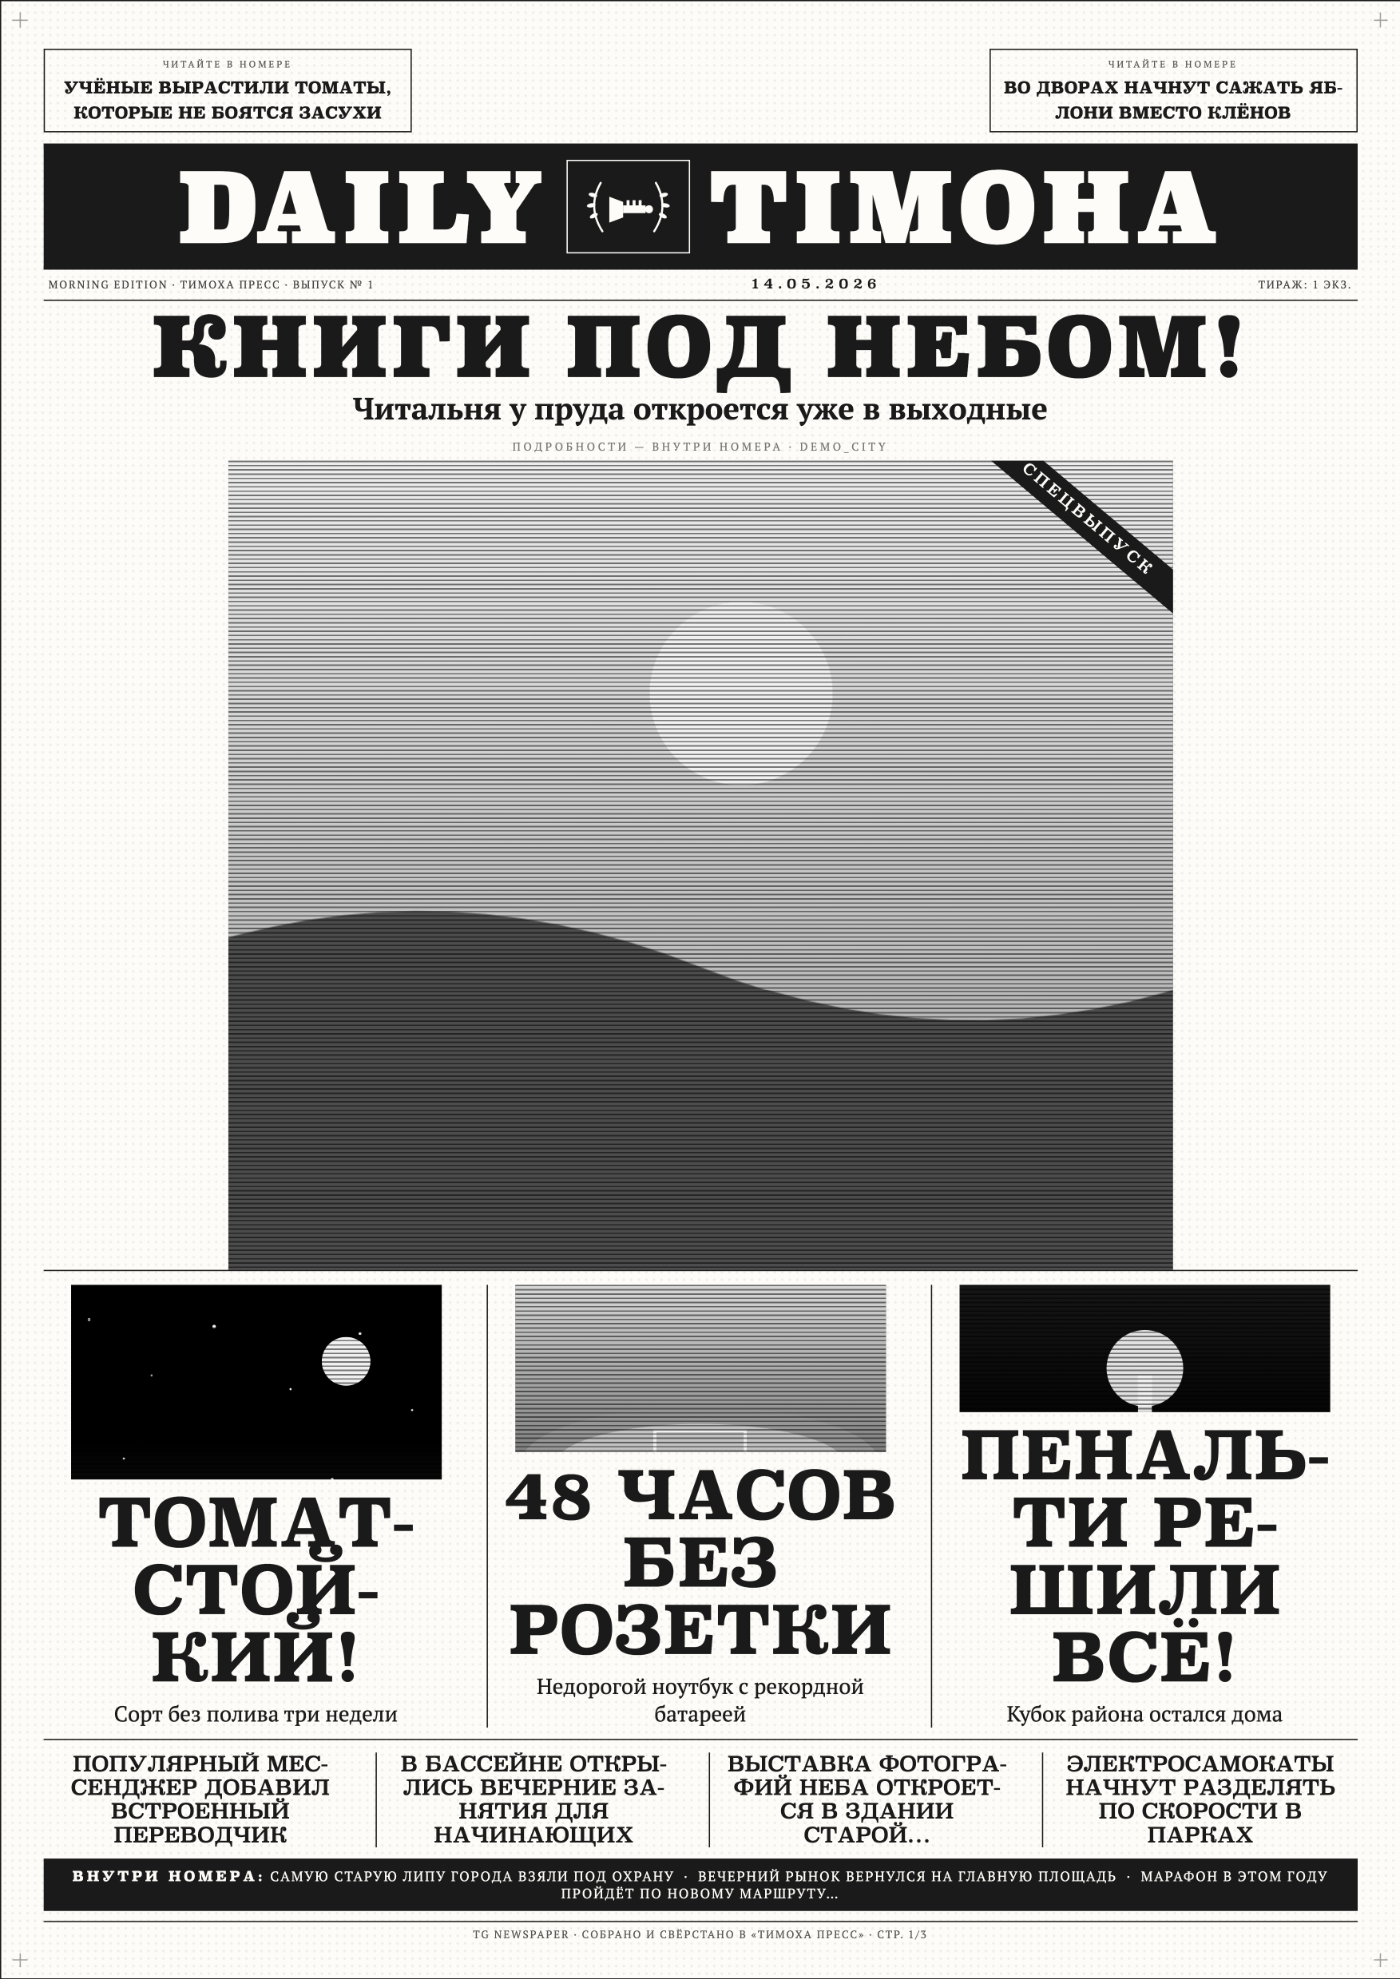
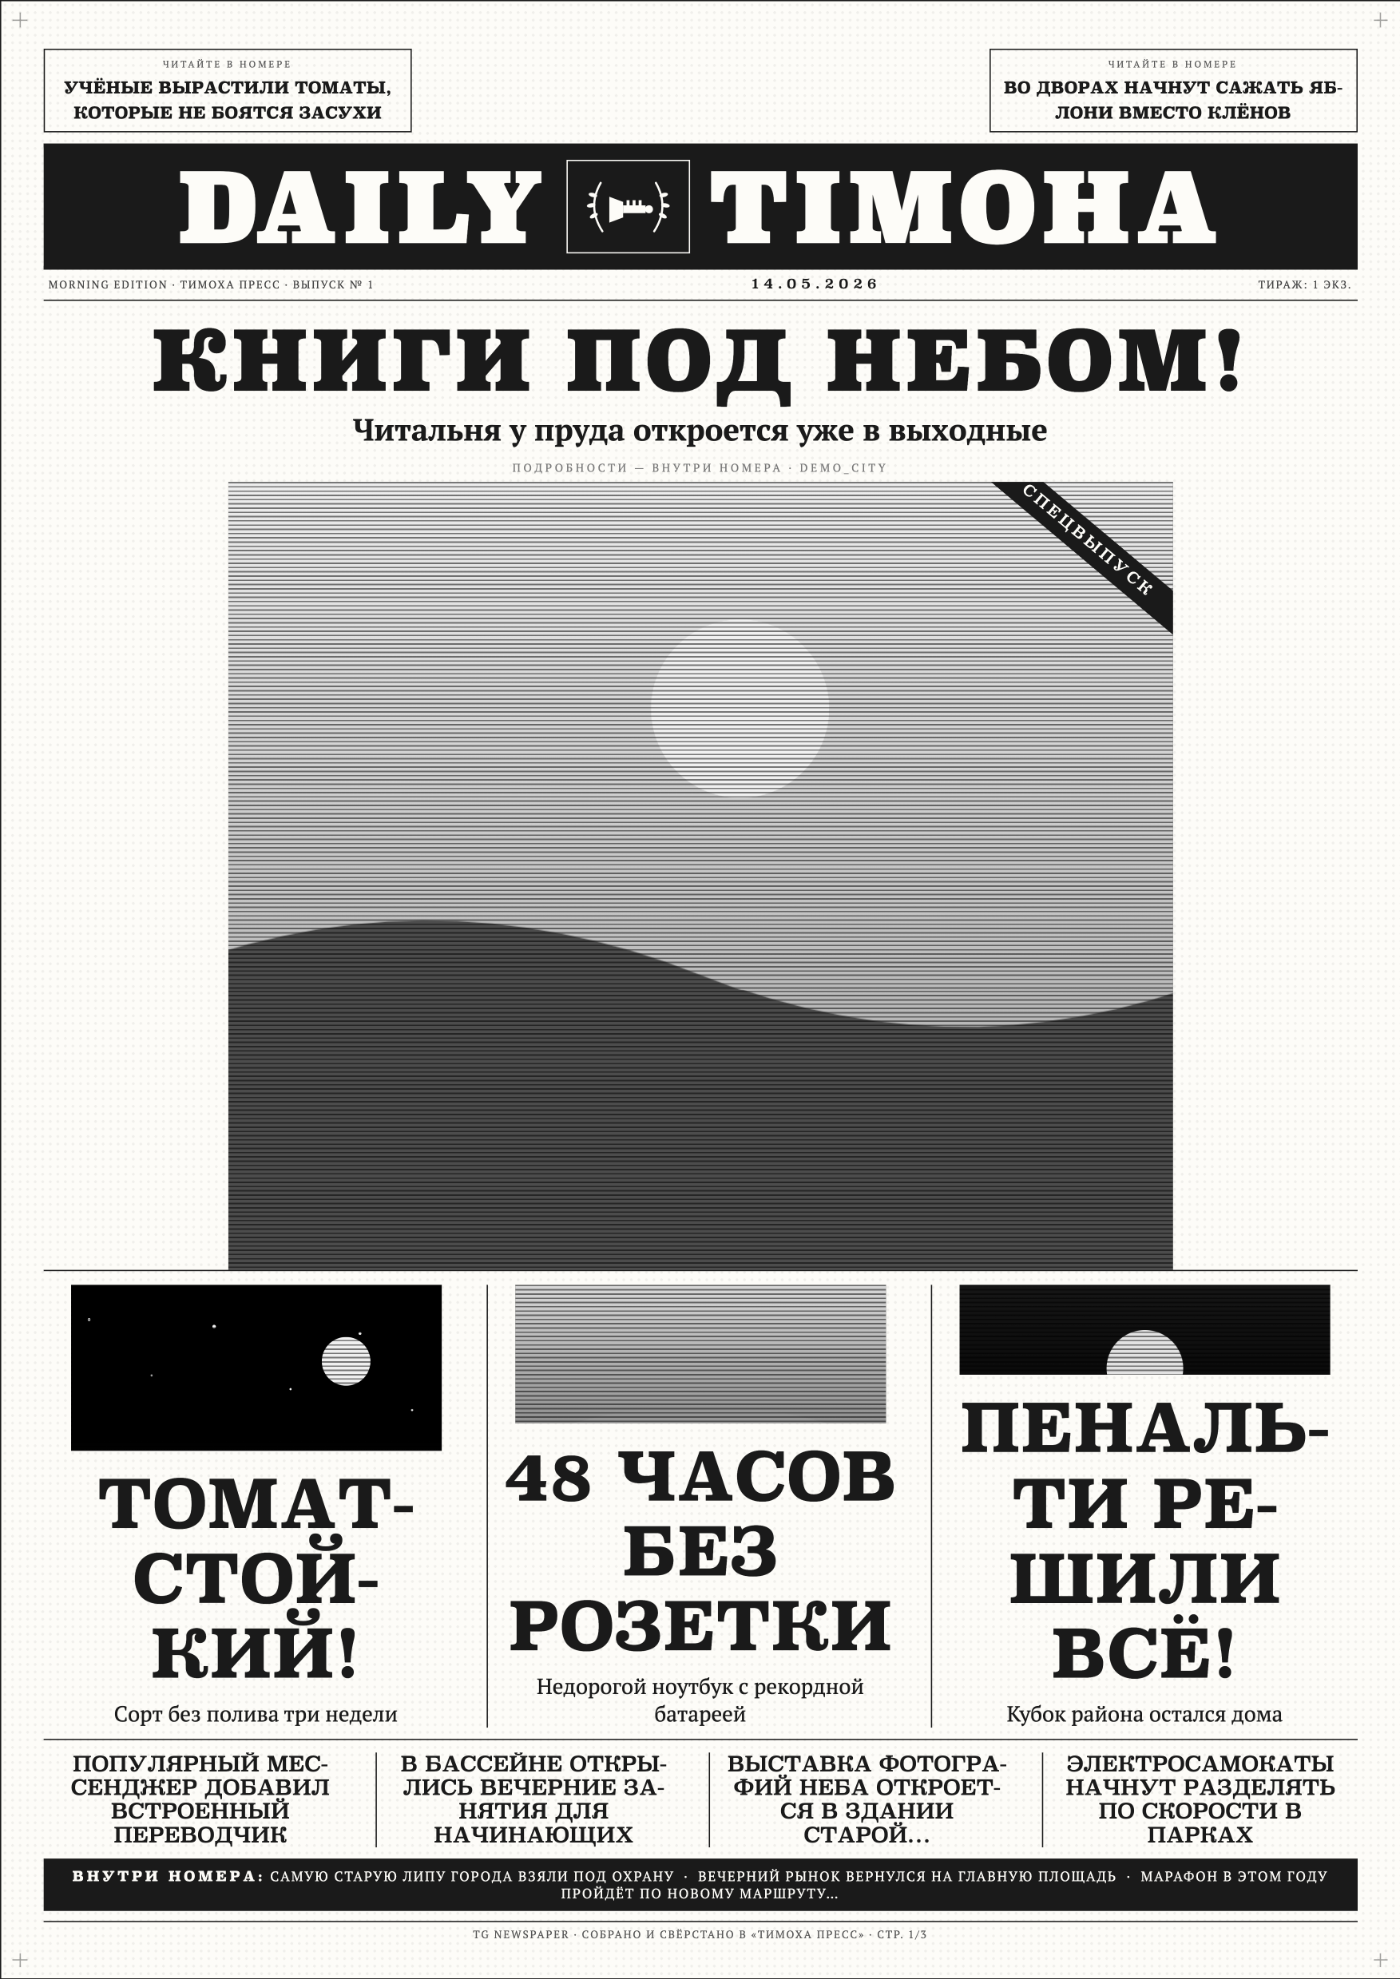
Обложка: диакритика крупных заголовков не налезает на строку выше; статус в документах
Межстрочный интервал главного и вторичных анонсов обложки (капс
Superclarendon) был плотнее высоты кратки над Й и точек над Ё —
они врезались в предыдущую строку. Интервал увеличен минимально,
у кадров вторичных анонсов — минимальная высота. Демо-картинки
README перегенерированы. AGENTS.md и план реализации приведены
к фактическому статусу этапов.

diff --git a/src/tg_newspaper/layout.py b/src/tg_newspaper/layout.py
@@ -522,8 +522,11 @@ _STYLE_TEMPLATE = """
   }}
   .screamer {{
     font-family: "Superclarendon", Georgia, "Times New Roman", serif;
-    font-weight: 900; line-height: 0.92; letter-spacing: 0.5mm;
-    text-transform: uppercase; margin: 0 0 1mm;
+    font-weight: 900; line-height: 1.12; letter-spacing: 0.5mm;
+    /* 1.12, а не плотные 0.92: при 0.92 краткая над «Й» и точки над «Ё»
+       налезали на строку выше. padding-top — чтобы диакритика первой
+       строки не срезалась overflow. */
+    text-transform: uppercase; margin: 0 0 1mm; padding-top: 0.06em;
     /* Кегль приходит инлайном из _screamer_font_mm — он считается от длины
        крика, как верстальщик подбирает кегль под строку: короткое "СУХО!"
        печатается во всю полосу, длинная "МОБИЛИЗАЦИЯ?" — помельче, но всё
@@ -568,7 +571,7 @@ _STYLE_TEMPLATE = """
   .cover-list-item {{
     border-top: 0.4mm solid #1a1a1a; padding-top: 2mm;
     font-family: "Superclarendon", Georgia, serif;
-    font-size: 8.5mm; line-height: 1.1; text-transform: uppercase;
+    font-size: 8.5mm; line-height: 1.12; text-transform: uppercase;
     hyphens: auto; overflow-wrap: break-word;
   }}
 
@@ -587,7 +590,10 @@ _STYLE_TEMPLATE = """
   .secondary-item:first-child {{ border-left: none; }}
   .secondary-item h3 {{
     font-family: "Superclarendon", Georgia, serif;
-    font-size: 13mm; line-height: 1.02; margin: 0 0 2mm;
+    font-size: 13mm; line-height: 1.14; margin: 0 0 2mm;
+    /* 1.14: при 1.02 краткая над «Й» врезалась в строку выше; padding-top —
+       чтобы диакритика первой строки не срезалась overflow у .secondary-item */
+    padding-top: 0.08em;
     text-transform: uppercase; hyphens: auto; overflow-wrap: break-word;
   }}
   .secondary-item p {{ font-size: 4.6mm; line-height: 1.25; margin: 0; }}
@@ -611,6 +617,8 @@ _STYLE_TEMPLATE = """
   .secondary-photo {{
     position: relative; overflow: hidden; background-color: #333;
     margin: 0 auto 2mm; flex: 0 1 auto;
+    /* кадр не сжимается в узкую полосу, когда текст анонса высокий */
+    min-height: 14mm;
   }}
 
   /* Нижняя полоса-анонс — инверсная (белым по чёрному), как чёрная плашка

diff --git a/docs/implementation-plan.md b/docs/implementation-plan.md
@@ -8,9 +8,9 @@
 - [x] Этап 1 — Сбор истории каналов
 - [x] Этап 2 — Фильтрация и дедупликация
 - [x] Этап 3 — Вёрстка и рендер
-- [ ] Этап 4 — Печать
-- [ ] Этап 5 — Локальная консоль и запуск по кнопке
-- [ ] Этап 6 — Персонализация значимости
+- [ ] Этап 4 — Печать — не начат
+- [ ] Этап 5 — Локальная консоль и запуск по кнопке — частично: пп.1–4 готовы, осталась финальная приёмка (п.5)
+- [ ] Этап 6 — Персонализация значимости — частично: пп.1–4 готовы, осталась сверка на реальном накопленном профиле (п.5)
 - [ ] Этап 7 — Персонализация по рубрикам
 - [ ] Этап 8 — Веб-интерфейс управления каналами и фильтрацией
 
@@ -67,6 +67,7 @@
 3. ✅ Мастер первоначальной настройки в консоли: при первом запуске `scripts/console.py` человек сам проходит Telegram API → вход в аккаунт (телефон/код/2FA прямо в браузере) → Gemini (ключ, модель, прокси, проверка) → список каналов (проверка доступа) → онбординг, без ручной правки файлов; позже открывается по ссылке "Настройки". Секреты — в `.env` и файле сессии (0600), бот-токена нет. Это не заменяет Этап 8: каналы здесь только списком в textarea, без CRUD и настроек фильтрации.
 4. ✅ (рендер; печать из Этапа 4 по-прежнему не сделана) Рендер встроен в прогон: кнопка "Собрать газету" и `uv run tg-newspaper` после отбора сразу вёрстают номер (`pipeline.assemble_issue`, файлы в `data/issues/run_<id>/`), страница прогона показывает превью полос и отдаёт PDF (A4 по полосам и склеенные листы A3, `issue_pdf.py`, кеш создаётся при первом скачивании); есть ручная пересборка (`POST /run_<id>/render`). Сбой вёрстки не теряет уже сохранённый отбор — ошибка видна на странице прогона.
 5. Финальная приёмка: несколько прогонов по кнопке подряд (в том числе с большим перерывом между ними) без вмешательства человека, кроме самого нажатия — каждый должен корректно забирать именно свои последние 24 часа и не пытаться наверстать пропуск между прогонами. Это и есть критерий готовности **первой версии**.
+6. ✅ Приложение одной кнопкой и релизы (сверх плана): `TG Newspaper.app` / ярлык Windows запускают `scripts/launch.sh` (`packaging/windows/`) — поднимают консоль и открывают браузер; готовые macOS dmg и Windows setup.exe собираются в GitHub Actions по тегу `v*` (`.github/workflows/release.yml`, первый выпуск — v0.1.0), данные пользователя отделены через `TG_NEWSPAPER_HOME`. Подробности — в [AGENTS.md](../AGENTS.md).
 
 ---
 

diff --git a/AGENTS.md b/AGENTS.md
@@ -2,7 +2,7 @@
 
 Контекст для AI-агента при работе в этом репозитории — общий для любого инструмента (Codex, Claude Code и т.д.).
 
-Этапы 0-3 реализованы (сбор истории каналов, фильтрация и дедупликация, вёрстка и рендер газетного номера) — см. отметки в [docs/implementation-plan.md](docs/implementation-plan.md). Этот файл пополняется конвенциями работы и граблями по мере реализации.
+Этапы 0-3 реализованы (сбор истории каналов, фильтрация и дедупликация, вёрстка и рендер газетного номера), этапы 5-6 — частично: локальная консоль с кнопкой, мастер настройки, релизы для macOS и Windows готовы, остаётся финальная приёмка; печать (этап 4) и этапы 7-8 не начаты — см. отметки в [docs/implementation-plan.md](docs/implementation-plan.md). Этот файл пополняется конвенциями работы и граблями по мере реализации.
 
 | что | где |
 |---|---|
